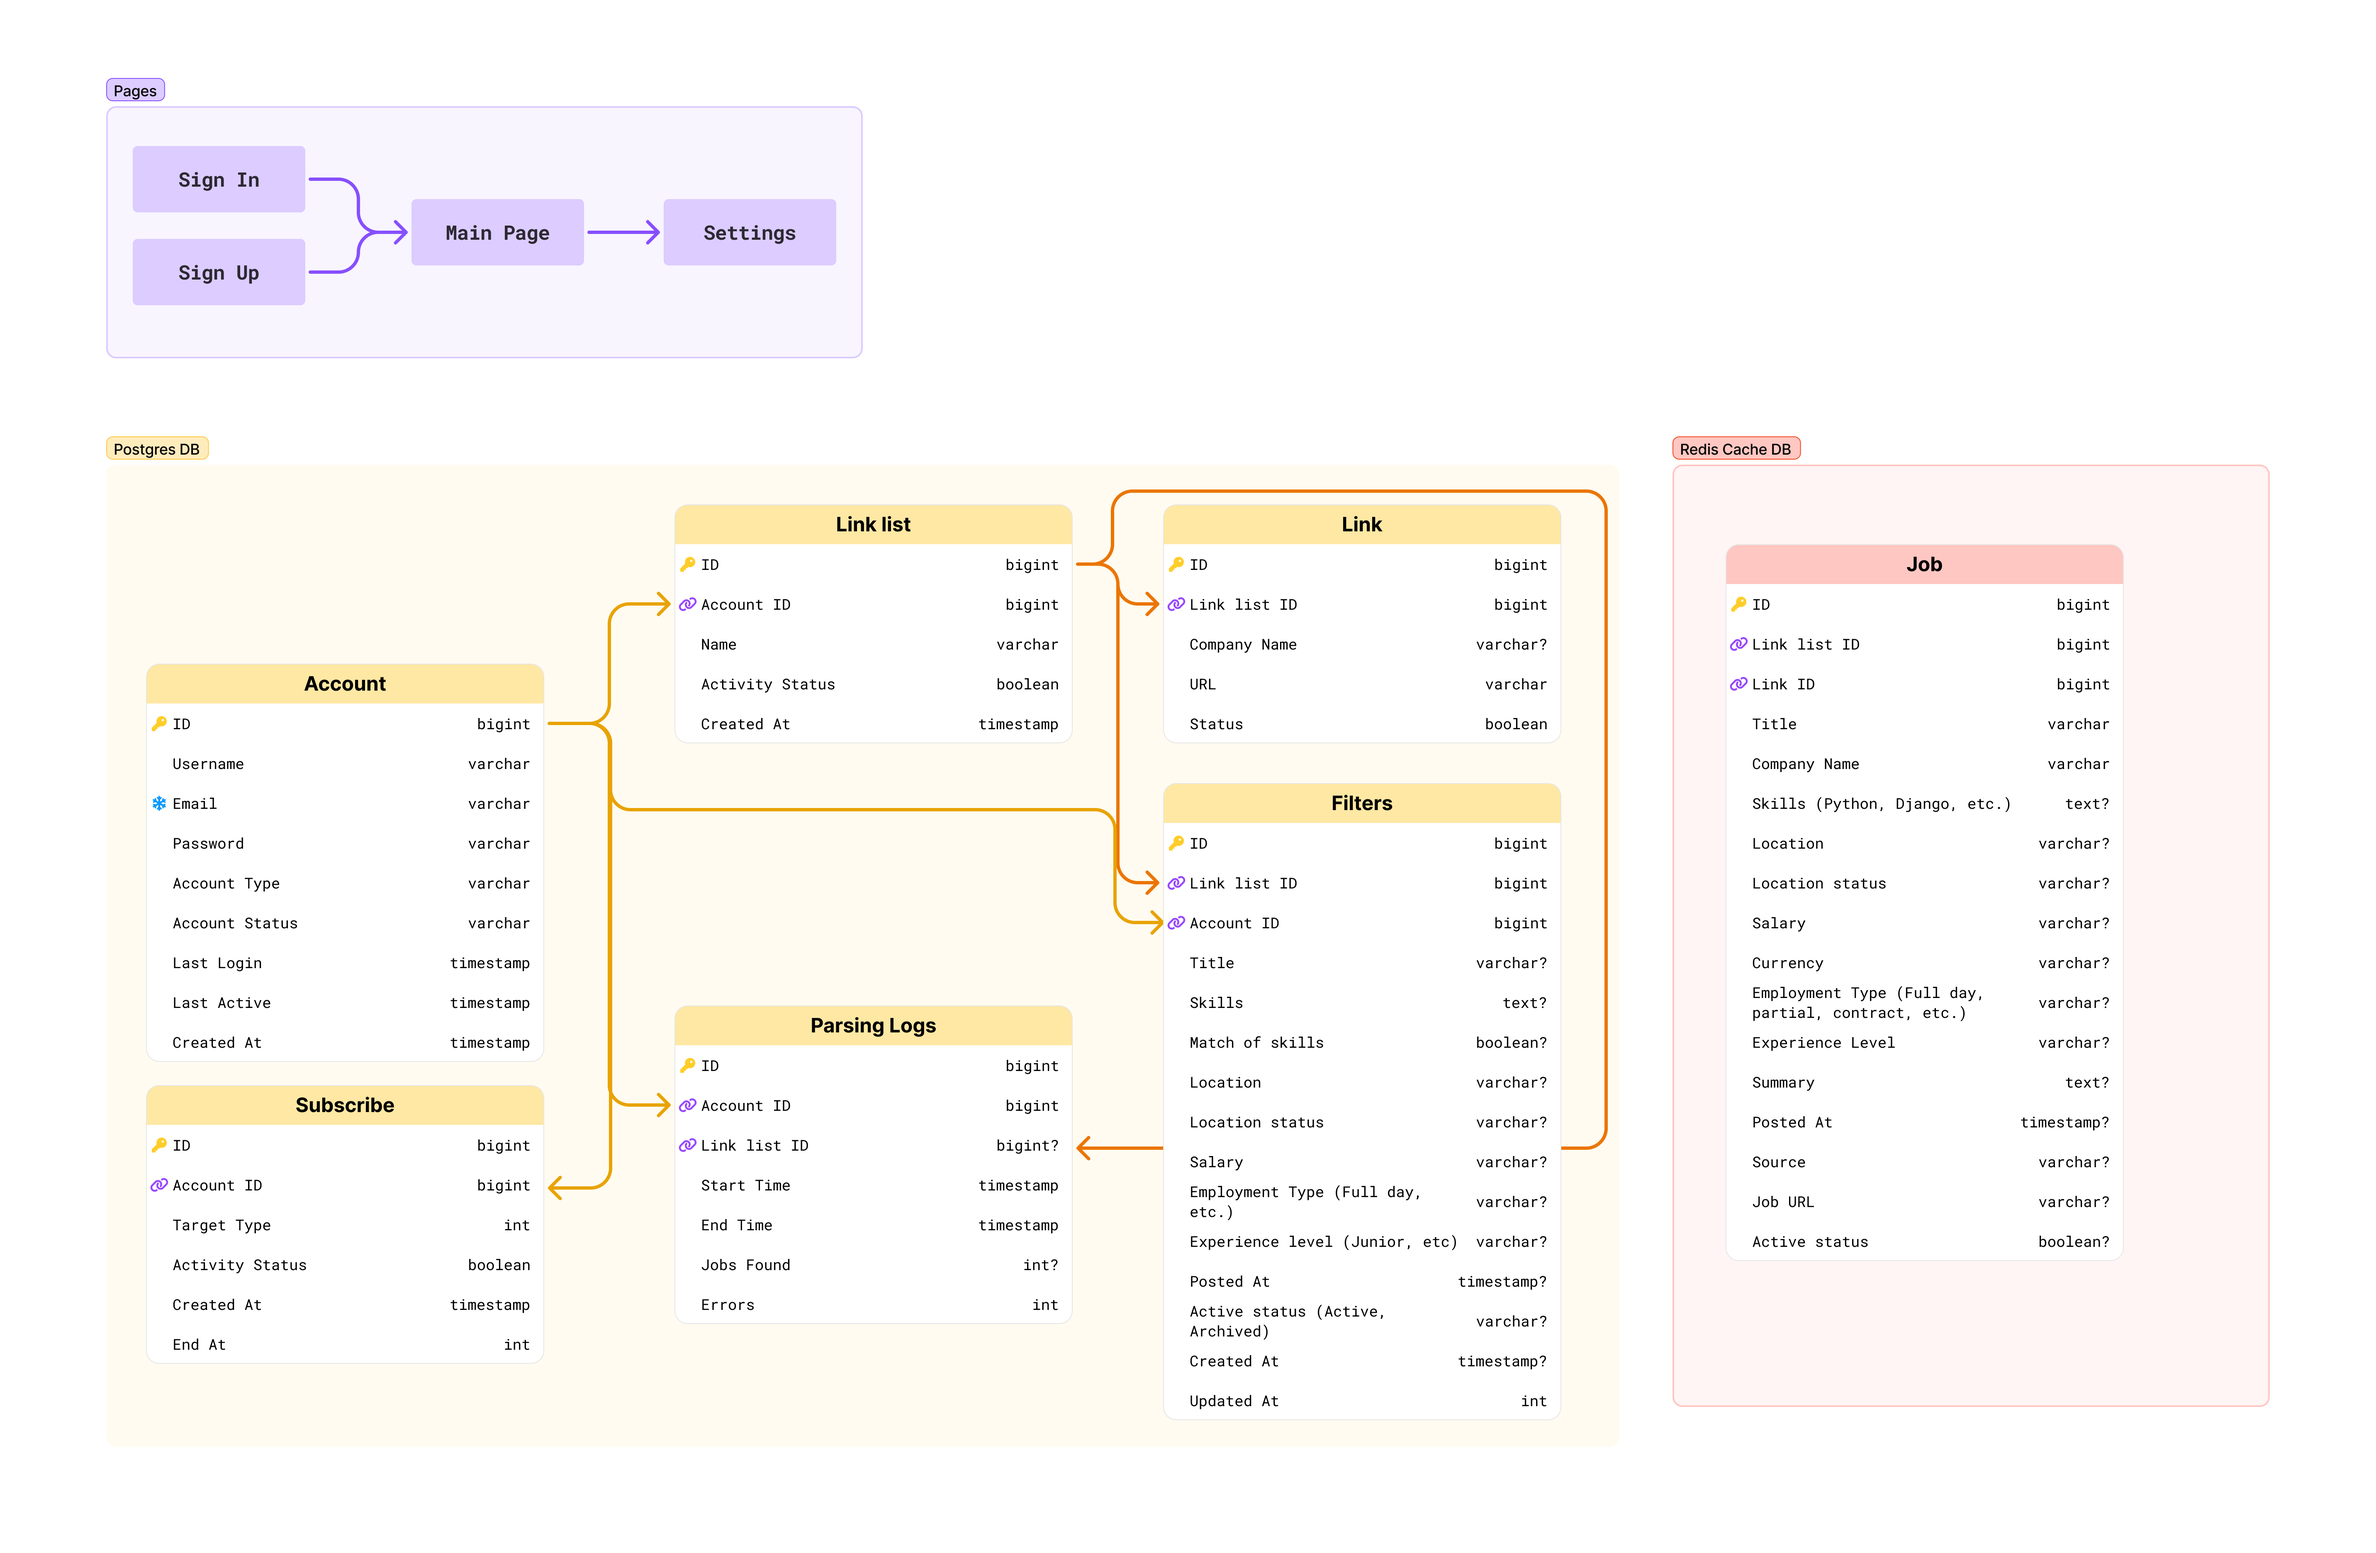
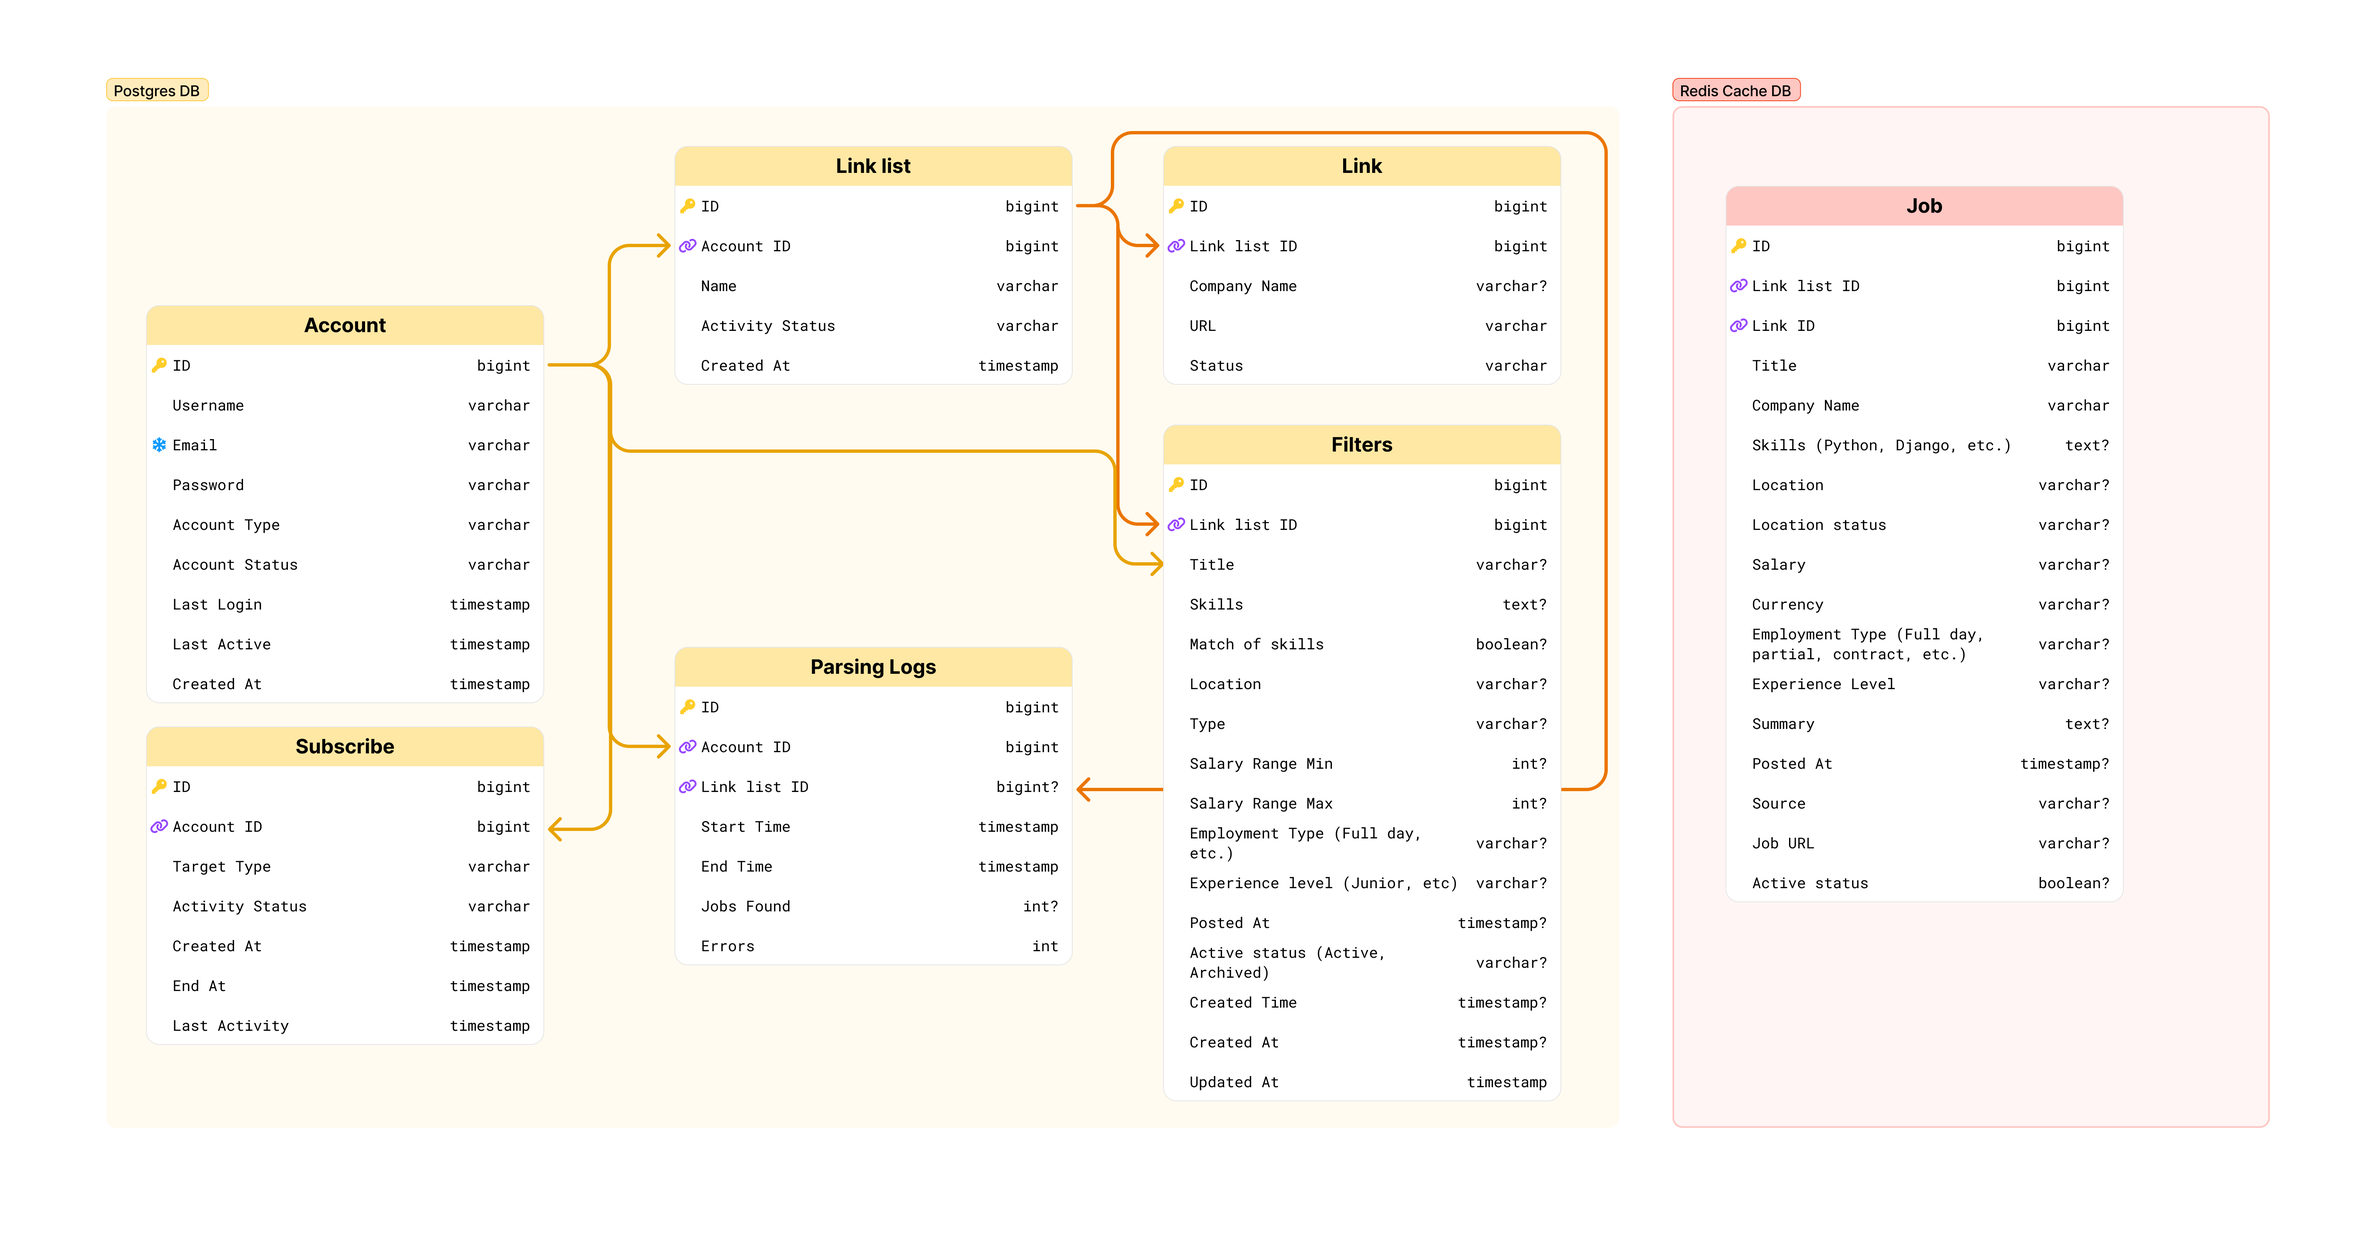
feature/VP-1 - Creation of basic models

diff --git a/src/models/filter.py b/src/models/filter.py
@@ -1,0 +1,37 @@
+from sqlalchemy import Column, Integer, ForeignKey, relationship, DateTime, String, Boolean
+from sqlalchemy import func
+
+from src.models.base import Base
+
+class Filter(Base):
+    """
+        Filter model
+    """
+    __tablename__ = 'filters'
+
+    id = Column(Integer, primary_key=True, index=True)
+    link_list_id = Column(Integer, ForeignKey('link_lists.id'), index=True)
+
+    title = Column(String(255), default='', nullable=True)
+    skills = Column(String(255), default='', nullable=True)
+    match_of_skills = Column(Boolean, default=False)
+    location = Column(String(255), default='', nullable=True)
+    type = Column(String(255), default='', nullable=True)   # Office, Hybrid, Remote, etc.
+    salary_range_min = Column(Integer, default=0, nullable=True)
+    salary_range_max= Column(Integer, default=0, nullable=True)
+    employment_type = Column(String(255), default='', nullable=True)  # Full day, Part time, Contract, Internship, etc.
+    experience_level = Column(String(255), default='', nullable=True) # Intern, Junior, Mid, Senior, etc.
+    posted_at = Column(DateTime, default=None, nullable=True)
+    active_status = Column(String(255), default=True, nullable=True) # Active, Archived, etc.
+    created_time = Column(DateTime, default=None, nullable=True)
+
+    created_at = Column(DateTime, default=func.now())
+    updated_at = Column(DateTime, default=func.now())
+
+    link_list = relationship('LinkList', back_populates='filters', foreign_keys=[link_list_id])
+
+    def __repr__(self) -> str:
+        return f'<Filter(id={self.id}, title={self.title}, link_list_id={self.link_list_id})>'
+
+    def __str__(self) -> str:
+        return f'Filter(id={self.id}, title={self.title}, link_list_id={self.link_list_id})'

diff --git a/src/models/link_list.py b/src/models/link_list.py
@@ -1,12 +1,7 @@
-from src.models.base import Base
-from sqlalchemy import Column, Integer, ForeignKey, String
-from enum import Enum as PyEnum, Enum
+from sqlalchemy import Column, Integer, ForeignKey, String, relationship, Enum, DateTime
+from sqlalchemy import func
 
-
-class LinkListStatus(PyEnum):
-    ACTIVE = 'ADMIN'
-    HIDDEN = 'HIDDEN'
-    ARCHIVED = 'SIMPLE'
+from src.models.base import Base, ActivityStatus
 
 
 class LinkList(Base):
@@ -16,5 +11,21 @@ class LinkList(Base):
     __tablename__ = 'link_lists'
 
     id = Column(Integer, primary_key=True, index=True)
-    account_id = Column(Integer, ForeignKey('accounts.id'), nullable=False)
-    status = Column(Enum(LinkListStatus), default=LinkListStatus.ADMIN)
+    account_id = Column(Integer, ForeignKey('accounts.id'))
+    name = Column(String(255), nullable=False)
+    activity_status = Column(Enum(ActivityStatus), default=ActivityStatus.ACTIVE)
+
+    updated_at = Column(DateTime, server_default=func.now())
+    created_at = Column(DateTime, server_default=func.now())
+
+    account = relationship('Account', back_populates='link_lists', foreign_keys=[account_id])
+
+    links = relationship('Link', back_populates='link_list')
+    parsing_logs = relationship('ParsingLog', back_populates='link_list')
+    filters = relationship('Filter', back_populates='link_list')
+
+    def __repr__(self) -> str:
+        return f'<LinkList(id={self.id}, name={self.name}, activity_status={self.activity_status})>'
+
+    def __str__(self) -> str:
+        return f'LinkList(id={self.id}, name={self.name}, activity_status={self.activity_status})'

diff --git a/src/models/subscribe.py b/src/models/subscribe.py
@@ -1,0 +1,42 @@
+from sqlalchemy import Column, Integer, ForeignKey, String, relationship, Enum, DateTime
+from sqlalchemy import func
+from enum import Enum as PyEnum
+
+from src.models.base import Base, ActivityStatus
+
+class TargetType(PyEnum):
+    MONTHLY = 'MONTHLY'
+    YEARLY = 'YEARLY'
+
+class ActivitySubscribeStatus(ActivityStatus):
+    DISABLED = 'DISABLED'
+    FAILED = 'FAILED'
+    PENDING = 'PENDING'
+    SUSPENDED = 'SUSPENDED'
+
+
+class Subscribe(Base):
+    """
+        Subscribe model
+    """
+    __tablename__ = 'subscribes'
+
+    id = Column(Integer, primary_key=True, index=True)
+    account_id = Column(Integer, ForeignKey('accounts.id'))
+    name = Column(String(255), nullable=False)
+    target_type = Column(Enum(TargetType), default=TargetType.MONTHLY)
+    activity_status = Column(Enum(ActivityStatus), default=ActivitySubscribeStatus.PENDING)
+
+    end_at = Column(DateTime, server_default=func.now())
+    created_at = Column(DateTime, server_default=func.now())
+    last_activity = Column(DateTime, server_default=func.now())
+
+    account = relationship('Account', back_populates='accounts', foreign_keys=[account_id])
+
+    def __repr__(self) -> str:
+        return (f'<Subscribe(id={self.id}, account_id={self.account_id}, name={self.name}, '
+                f'target_type={self.target_type}, activity_status={self.activity_status})>')
+
+    def __str__(self) -> str:
+        return (f'Subscribe(id={self.id}, account_id={self.account_id}, name={self.name}, '
+                f'target_type={self.target_type}, activity_status={self.activity_status})')

diff --git a/src/models/parsing_log.py b/src/models/parsing_log.py
@@ -1,0 +1,32 @@
+from sqlalchemy import Column, Integer, ForeignKey, relationship, DateTime
+from sqlalchemy import func
+
+from src.models.base import Base
+
+class ParsingLog(Base):
+    """
+        Parsing Logs model
+    """
+    __tablename__ = 'parsing_logs'
+
+    id = Column(Integer, primary_key=True, index=True)
+    account_id = Column(Integer, ForeignKey('accounts.id'))
+    link_list_id = Column(Integer, ForeignKey('link_lists.id'))
+
+    start_time = Column(DateTime, server_default=func.now())
+    end_time = Column(DateTime, server_default=func.now())
+    jobs_found = Column(Integer, default=0, nullable=True)
+    errors = Column(Integer, default=0, nullable=True)
+
+    account = relationship('Account', back_populates='parsing_logs', foreign_keys=[account_id])
+    link_list = relationship('LinkList', back_populates='parsing_logs', foreign_keys=[link_list_id])
+
+    def __repr__(self) -> str:
+        return (f'<ParsingLog(id={self.id}, account_id={self.account_id}, '
+                f'link_list_id={self.link_list_id}, start_time={self.start_time}, '
+                f'end_time={self.end_time}, jobs_found={self.jobs_found}, errors={self.errors})>')
+
+    def __str__(self) -> str:
+        return (f'ParsingLog(id={self.id}, account_id={self.account_id}, '
+                f'link_list_id={self.link_list_id}, start_time={self.start_time}, '
+                f'end_time={self.end_time}, jobs_found={self.jobs_found}, errors={self.errors})>')

diff --git a/src/models/account.py b/src/models/account.py
@@ -1,12 +1,8 @@
 from sqlalchemy import Column, Integer, String, DateTime, Enum, relationship
-from src.models.base import Base
 from enum import Enum as PyEnum
 from sqlalchemy import func
 
-class AccountStatus(PyEnum):
-    ACTIVE = 'ACTIVE'
-    BLOCKED = 'BLOCKED'
-    ARCHIVED = 'ARCHIVED'
+from src.models.base import Base, AccountStatus
 
 class AccountType(PyEnum):
     ADMIN = 'ADMIN'
@@ -26,10 +22,13 @@ class Account(Base):
     account_status = Column(Enum(AccountStatus), default=AccountStatus.ACTIVE)
     account_type = Column(Enum(AccountType), default=AccountType.SIMPLE)
 
-    updated_at = Column(DateTime, server_default=func.now())
+    last_login = Column(DateTime, server_default=func.now())
+    last_active = Column(DateTime, server_default=func.now())
     created_at = Column(DateTime, server_default=func.now())
 
-    link_lists = relationship('LinkList', back_populates='link_list')
+    link_lists = relationship('LinkList', back_populates='account')
+    subscribes = relationship('Subscribe', back_populates='account')
+    parsing_logs = relationship('ParsingLog', back_populates='account')
 
     def __repr__(self) -> str:
         return f'<Account(id={self.id}, username={self.username}, email={self.email}>'

diff --git a/src/models/link.py b/src/models/link.py
@@ -1,0 +1,31 @@
+from sqlalchemy import Column, Integer, ForeignKey, String, relationship, Enum, DateTime
+from sqlalchemy import func
+
+from src.models.base import Base, ActivityStatus
+
+
+class Link(Base):
+    """
+        Link model
+    """
+    __tablename__ = 'links'
+
+    id = Column(Integer, primary_key=True, index=True)
+    link_list_id = Column(Integer, ForeignKey('link_lists.id'))
+    company_name = Column(String(255), nullable=True)
+    url = Column(String(1500), nullable=False, index=True)
+    activity_status = Column(Enum(ActivityStatus), default=ActivityStatus.ACTIVE)
+
+    updated_at = Column(DateTime, server_default=func.now())
+    created_at = Column(DateTime, server_default=func.now())
+
+    link_list = relationship('LinkList', back_populates='links', foreign_keys=[link_list_id])
+
+
+    def __repr__(self) -> str:
+        return (f'<Link(id={self.id}, link_list_id={self.link_list_id}, '
+                f'company_name={self.company_name}, url={self.url})>')
+
+    def __str__(self) -> str:
+        return (f'Link(id={self.id}, link_list_id={self.link_list_id}, '
+                f'company_name={self.company_name}, url={self.url})>')

diff --git a/src/models/base.py b/src/models/base.py
@@ -1,3 +1,14 @@
 from sqlalchemy.ext.declarative import declarative_base
+from enum import Enum as PyEnum
 
 Base = declarative_base()
+
+class ActivityStatus(PyEnum):
+    ACTIVE = 'ACTIVE'
+    INACTIVE = 'INACTIVE'
+    ARCHIVED = 'ARCHIVED'
+
+class AccountStatus(PyEnum):
+    ACTIVE = 'ACTIVE'
+    BLOCKED = 'BLOCKED'
+    ARCHIVED = 'ARCHIVED'

diff --git a/README.md b/README.md
@@ -10,7 +10,9 @@ For automatic parsing and filtering of job vacancies from multiple company websi
 
 ![architecture.png](images/architecture.png)
 
-![architecture.png](images/db_architecture.png)
+![db architecture.png](images/db_architecture.png)
+
+![pages architecture.png](images/pages_architecture.png)
 
 ## 📋 Endpoints
 
